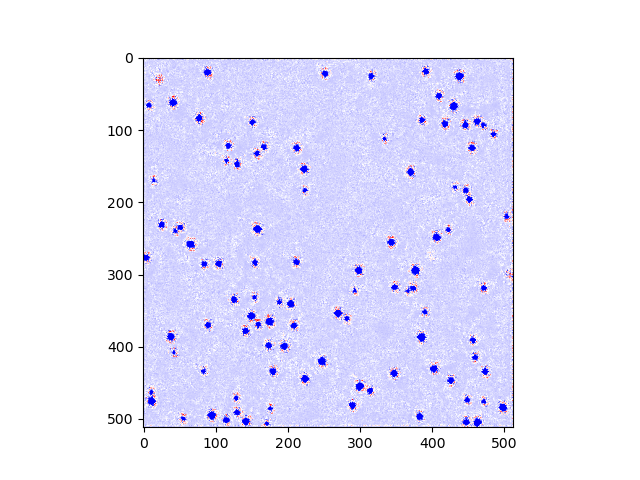
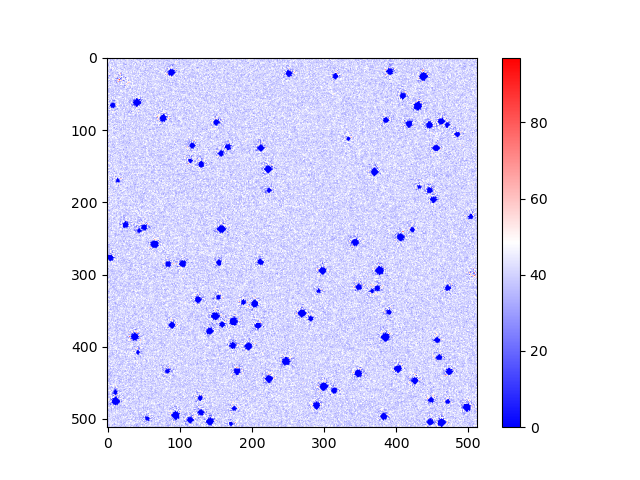
RL learning is finished

Changed region(s): [[0.0938, 0.0938, 0.875, 0.9375]]

diff --git a/main.py b/main.py
@@ -140,6 +140,7 @@ def main():
     args = parse_me()
 
     # Generate data
+    N_IMAGES = 3
     # from generate import generate
     # n_seeds = np.arange(3) + 420
     # generate(0, 3, n_seeds)
@@ -148,10 +149,15 @@ def main():
     model = Model()
     opt = torch.optim.Adam(model.parameters(), 1e-4)
 
-    # Train loop
-    for epoch in range(args.train_epochs):
+    def get_image(image_id):
         # read map.py
-        image = Image.open('data/img/p00000.png').convert('RGB')
+        name = None
+        if image_id < 10:
+            name = f'p0000{image_id}'
+        elif image_id < 100:
+            name = f'p000{image_id}'
+        
+        image = Image.open(f'data/img/{name}.png').convert('RGB')
         image = np.array(image)
         
         transform = transforms.Compose(
@@ -161,94 +167,108 @@ def main():
         t_image = transform(image).unsqueeze(0)
         # print(t_image)
 
-        # TODO: Use RL to generate from image and start and end path weight map
+
+        return image, t_image, name
+
+    # Train loop
+    for epoch in range(args.train_epochs):
+        for im_id in range(N_IMAGES):
+            image, t_image, im_name = get_image(im_id)
+            # TODO: Use RL to generate from image and start and end path weight map
         
-        weight_mu_std, value = model(t_image)
-        
-        weight_mu = weight_mu_std[:,0]
-        weight_std = weight_mu_std[:,1]**2
-        # print(min(weight_mu), max(weight_mu))
-        
-        # w_img = weight_distribution.detach()[0,0]
-        # plt.figure();plt.imshow(weight_mu.detach()[0]);plt.colorbar();plt.title("weight_mu");plt.show()
-        # plt.imshow(weight_std.detach()[0]);plt.colorbar();plt.title("weight_std");plt.show()
-        # plt.imshow(image);plt.imshow(weight_mu.detach()[0],alpha=0.5);plt.colorbar();plt.title("image and weight_mu");plt.show()
-        # plt.imshow(image);plt.imshow(weight_std.detach()[0],alpha=0.5);plt.colorbar();plt.title("image and weight_std");plt.show()
+            weight_mu_std, value = model(t_image)
+            
+            weight_mu = weight_mu_std[:,0]
+            weight_std = weight_mu_std[:,1]**2
+            # print(min(weight_mu), max(weight_mu))
+            
+            # w_img = weight_distribution.detach()[0,0]
+            # plt.figure();plt.imshow(weight_mu.detach()[0]);plt.colorbar();plt.title("weight_mu");plt.show()
+            # plt.imshow(weight_std.detach()[0]);plt.colorbar();plt.title("weight_std");plt.show()
+            # plt.imshow(image);plt.imshow(weight_mu.detach()[0],alpha=0.5);plt.colorbar();plt.title("image and weight_mu");plt.show()
+            # plt.imshow(image);plt.imshow(weight_std.detach()[0],alpha=0.5);plt.colorbar();plt.title("image and weight_std");plt.show()
 
-        # print(weight_distribution, value)
+            # print(weight_distribution, value)
 
-        # ASSUME THAT WEIGHT IMAGE IS CORRECT
-        # log_std = torch.nn.Parameter(torch.ones_like(w_img))
-        # std   = log_std.exp().expand_as(w_img)
-        distribution = torch.distributions.Normal(weight_mu[0], weight_std[0])
-        # weight = torch.distributions.Normal(w_img, std)
+            # ASSUME THAT WEIGHT IMAGE IS CORRECT
+            # log_std = torch.nn.Parameter(torch.ones_like(w_img))
+            # std   = log_std.exp().expand_as(w_img)
+            distribution = torch.distributions.Normal(weight_mu[0], weight_std[0])
+            # weight = torch.distributions.Normal(w_img, std)
 
-        weight = distribution.sample()
-        weight = torch.sigmoid(weight)
-        # plt.figure();plt.imshow(weight.detach());plt.colorbar();plt.title("weight");plt.show()
+            weight = distribution.sample()
+            weight = torch.sigmoid(weight)
+            # plt.figure();plt.imshow(weight.detach());plt.colorbar();plt.title("weight");plt.show()
 
-        log_prob = distribution.log_prob(weight).mean()
-        entropy  = distribution.entropy().mean()
+            log_prob = distribution.log_prob(weight).mean()
+            entropy  = distribution.entropy().mean()
+
+            # print('log_prob: ', log_prob)
+
+            # TODO: RRT-weighted evaluation here as reward function
+
+            # Compute weight map
+            cond = np.all(np.array(image) == np.array([0,0,0]), 2)
+            masked_weight = weight
+            masked_weight[cond] = torch.tensor([0.]).repeat(masked_weight[cond].size()[0])
+            
+            # plt.imshow(masked_weight);plt.show()
+            
+            # put all values into small bakets 
+            p_weights = (masked_weight*100).round()
 
 
-        # TODO: RRT-weighted evaluation here as reward function
+            plt.figure();plt.imshow(p_weights, 'bwr');plt.colorbar()
+            plt.savefig(f'data/results/{im_name}_weight_epoch{epoch}.png')
+            
+            # bin all probabilities
+            unique_bins = torch.unique(p_weights)
+            probs_coords = {}
+            for ub in unique_bins:
+                if ub != 0: # if probability not 0
+                    coords = np.where(p_weights == ub)
+                    probs_coords[ub.item()] = [[tuple(c) for c in coords]] 
+            
+            all_rewards = []
+            for i in range(100):
+                rrt = RRTStar()
+                rrt.run_time_seconds = 0.1  # configure the time for each run
+                rrt.load_environment(0)
+                # Run with probability dictionary
+                rrt.set_probability_map_from_dict(probs_coords)
+                solution_cost, first_solution_at_iteration = rrt.run()  # run and get reward
+                # print(f"Solution Cost: {solution_cost}")
+                # print(f"First Solution: {first_solution_at_iteration}")
+                if first_solution_at_iteration != -1:
+                    all_rewards += [solution_cost + first_solution_at_iteration]
+            if len(all_rewards) > 0:
+                mean_reward = np.sum(all_rewards)
+                print('[',len(all_rewards),'] Mean Reward at this iteration: ', mean_reward)
+            else:
+                mean_reward = 0
 
-        # Compute weight map
-        cond = np.all(np.array(image) == np.array([0,0,0]), 2)
-        masked_weight = weight
-        masked_weight[cond] = torch.tensor([0.]).repeat(masked_weight[cond].size()[0])
-        
-        # plt.imshow(masked_weight);plt.show()
-        
-        # put all values into small bakets 
-        p_weights = (masked_weight*100).round()
+            # print(probs_coords)
 
+            # Then use this new sampler to select points at random with predetermin 
+            # probability. And select coordinates at uniform from them.
 
-        plt.imshow(p_weights, 'bwr')
-        plt.savefig(f'data/results/p00000_weight_epoch{epoch}.png')
-        
-        # bin all probabilities
-        unique_bins = torch.unique(p_weights)
-        probs_coords = {}
-        for ub in unique_bins:
-            if ub != 0: # if probability not 0
-                coords = np.where(p_weights == ub)
-                probs_coords[ub.item()] = [[tuple(c) for c in coords]] 
-        
-        all_rewards = []
-        for i in range(10):
-            rrt = RRTStar()
-            rrt.run_time_seconds = 0.2  # configure the time for each run
-            rrt.load_environment(0)
-            # Run with probability dictionary
-            rrt.set_probability_map_from_dict(probs_coords)
-            solution_cost, first_solution_at_iteration = rrt.run()  # run and get reward
-            # print(f"Solution Cost: {solution_cost}")
-            # print(f"First Solution: {first_solution_at_iteration}")
-            if first_solution_at_iteration != -1:
-                all_rewards += [solution_cost + first_solution_at_iteration]
-        mean_reward = np.mean(all_rewards)
-        print('Mean Reward at this iteration: ', mean_reward)
+            returns = mean_reward # many iterations of rewards
 
-        # print(probs_coords)
+            # TODO: UPDATE
+            advantage = returns - value
+            actor_loss = -(log_prob * advantage.detach()).mean()
+            critic_loss = advantage.pow(2).mean()
+            loss = actor_loss + 0.5 * critic_loss - 0.001 * entropy
 
-        # Then use this new sampler to select points at random with predetermin 
-        # probability. And select coordinates at uniform from them.
+            if loss < 0:
+                print('loss < 0')
 
-        returns = mean_reward # many iterations of rewards
+            print('ACTER LOSS: {:.4f}, CRITIC LOSS: {:.4f}, RL LOSS: {:4f}'.format(
+                actor_loss, critic_loss, loss
+            ))
 
-        # TODO: UPDATE
-        advantage = returns - value
-        actor_loss = -(log_prob * advantage.detach()).mean()
-        critic_loss = advantage.pow(2).mean()
-        loss = actor_loss + 0.5 * critic_loss - 0.001 * entropy
-
-        print('ACTER LOSS: {:.4f}, CRITIC LOSS: {:.4f}, RL LOSS: {:4f}'.format(
-            actor_loss, critic_loss, loss
-        ))
-
-        loss.backward()
-        opt.step()
+            loss.backward()
+            opt.step()
 
     # Evaluation
 

diff --git a/RL_model.py b/RL_model.py
@@ -3,6 +3,7 @@ import torch.nn as nn
 import torch.nn.functional as F
 import torchvision
 import torchvision.models as models
+torch.manual_seed(420)
 # Actor-critic
 # inspired by
 # https://github.com/higgsfield/RL-Adventure-2
@@ -93,14 +94,21 @@ class Model(nn.Module):
 
         # CRITIC
         # feature extractor for critic and it's head.
-        feature_extractor = models.efficientnet_b0(pretrained=False)
-        self.feature_extractor = nn.Sequential(*list((feature_extractor.children()))[:-1])
+        # feature_extractor = models.efficientnet_b0(pretrained=False)
+        # self.feature_extractor = nn.Sequential(*list((feature_extractor.children()))[:-1])
+        # self.feature_extractor = nn.Conv2d(1024, 3, 3)
         # non-linear critic head
-        self.critic_head = nn.Sequential(
-            nn.Linear(1280, 128),
+        # self.critic_head = nn.Sequential(
+        #     nn.Linear(1280, 64),
+        #     nn.ReLU(),
+        #     nn.Linear(64, 1),
+        #     nn.Tanh()
+        # )
+        self.flat_critic = nn.Sequential(
+            nn.Linear(786432, 64),
             nn.ReLU(),
-            nn.Linear(128, 1),
-            nn.Tanh()
+            nn.Linear(64, 1),
+            nn.ReLU()
         )
 
     def forward(self, x):
@@ -110,8 +118,10 @@ class Model(nn.Module):
 
         probs = self.actor(x)
 
-        c_out = self.feature_extractor(x)
-        c_out = c_out.squeeze()
-        value = self.critic_head(c_out)
+        value = self.flat_critic(x.flatten())
+
+        # c_out = self.feature_extractor(x)
+        # c_out = c_out.squeeze()
+        # value = self.critic_head(c_out)
 
         return probs, value 
